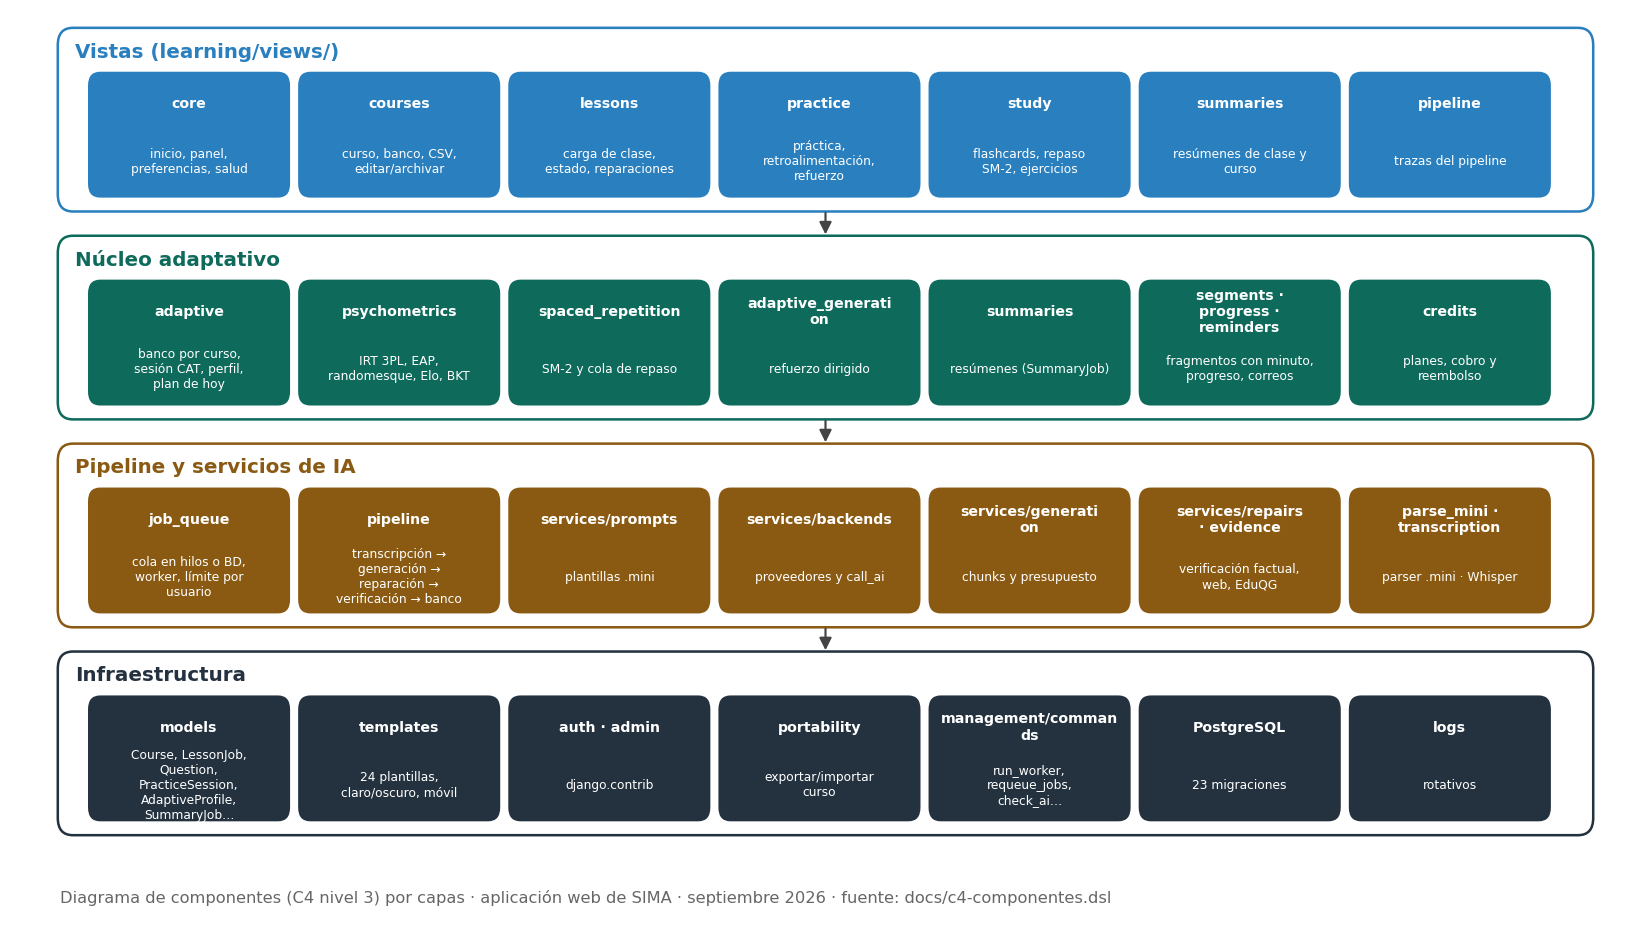
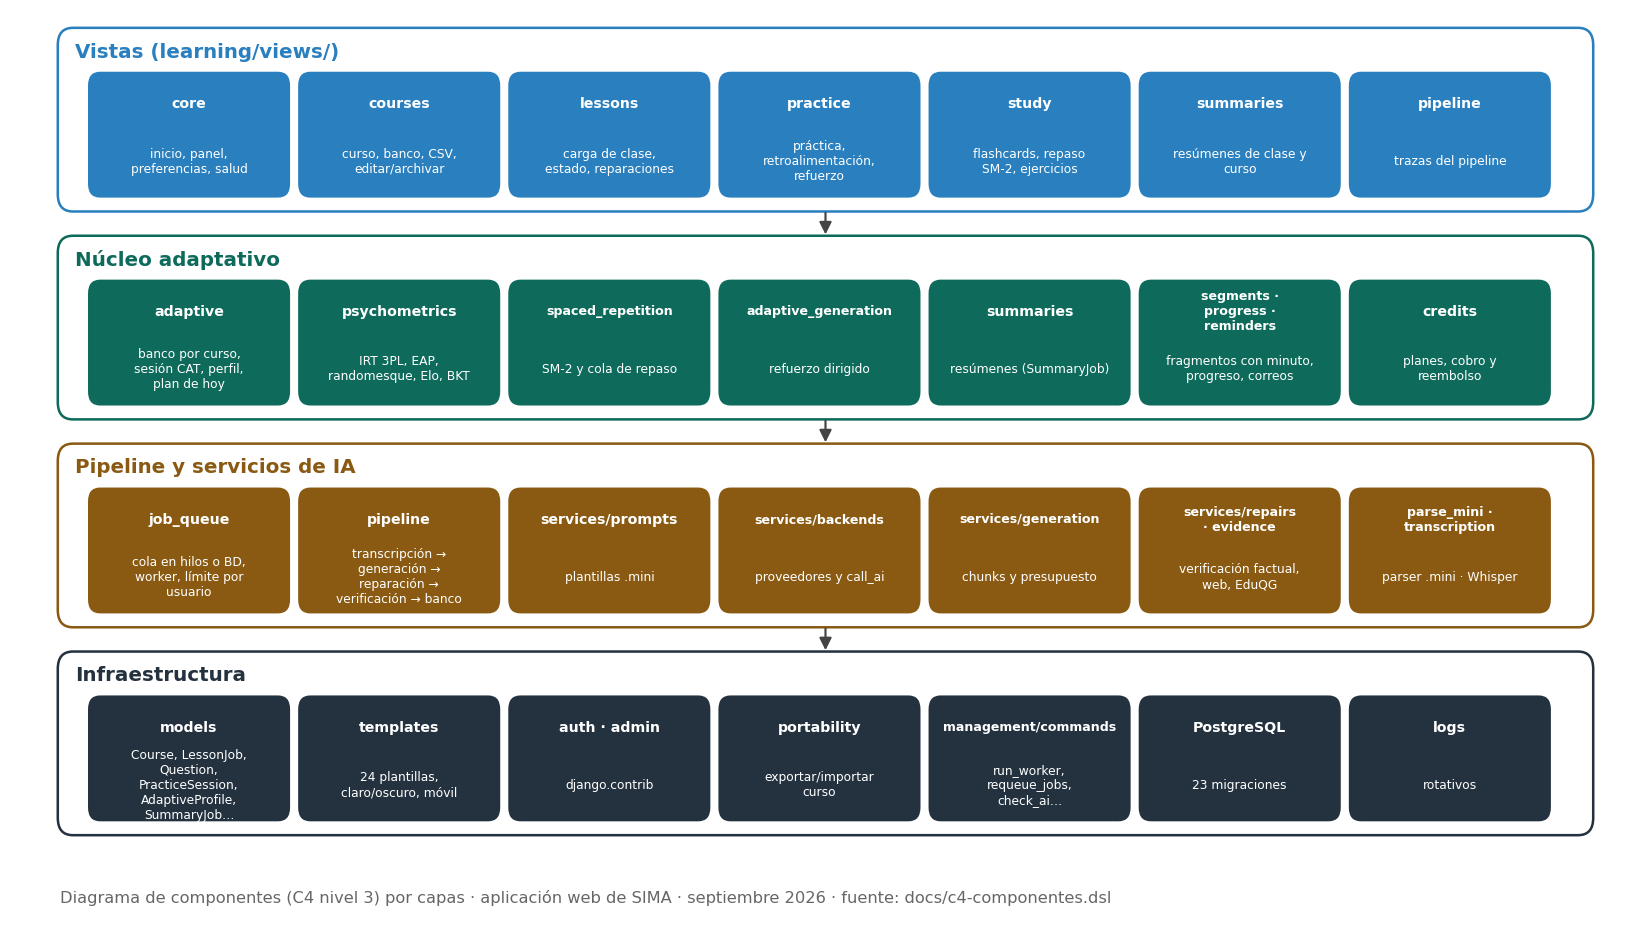
Diagramas C4: sin cortes de palabra en los componentes

diff --git a/docs/c4_draw.py b/docs/c4_draw.py
@@ -13,7 +13,7 @@ NL = chr(10)
 
 
 def wrap(text, width):
-    return NL.join(textwrap.wrap(text, width))
+    return NL.join(textwrap.wrap(text, width, break_long_words=False, break_on_hyphens=False))
 
 
 def box(ax, x, y, w, h, title, kind, desc="", color=SYSTEM, fs=11, radius=0.25):
@@ -113,7 +113,7 @@ for name, y, color, comps in layers:
     for k, (t, d) in enumerate(comps):
         x = 0.7 + k * (14.6 / n)
         ax.add_patch(FancyBboxPatch((x, y + 0.12), w, 1.05, boxstyle="round,pad=0.02,rounding_size=0.12", fc=color, ec="none"))
-        ax.text(x + w / 2, y + 0.92, wrap(t, 17), ha="center", va="center", color="white", fontsize=7.8, fontweight="bold", family=FONT)
+        ax.text(x + w / 2, y + 0.92, wrap(t, 17), ha="center", va="center", color="white", fontsize=7.0 if len(t) > 16 else 7.8, fontweight="bold", family=FONT)
         ax.text(x + w / 2, y + 0.42, wrap(d, 22), ha="center", va="center", color="white", fontsize=6.8, family=FONT)
 for y1, y2 in ((7.35, 7.10), (5.55, 5.30), (3.75, 3.50)):
     ax.add_patch(FancyArrowPatch((8.0, y1), (8.0, y2), arrowstyle="-|>", mutation_scale=14, color="#444444", lw=1.2))
